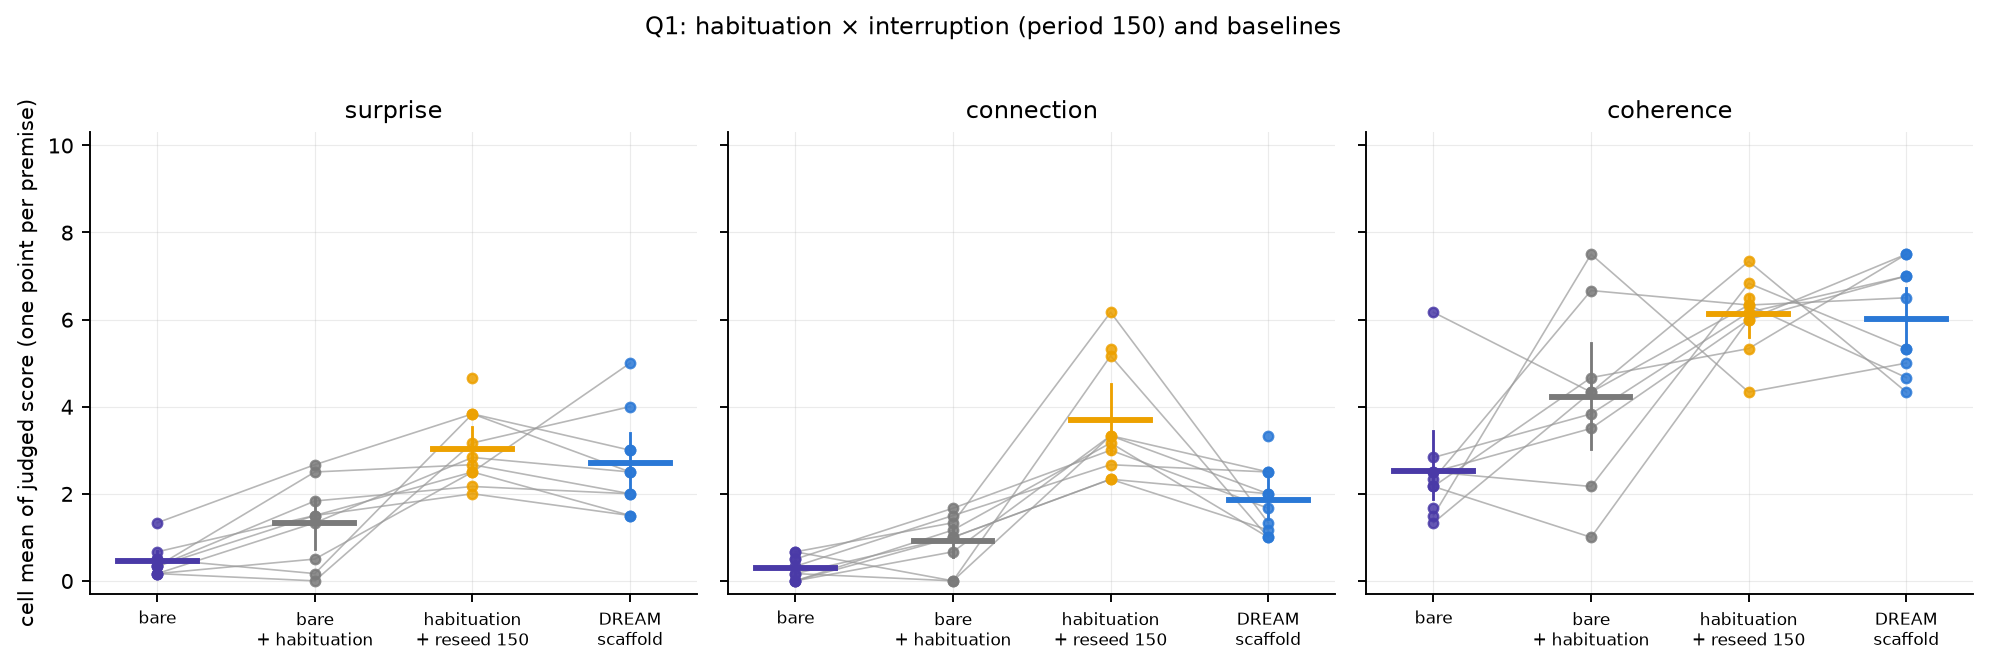
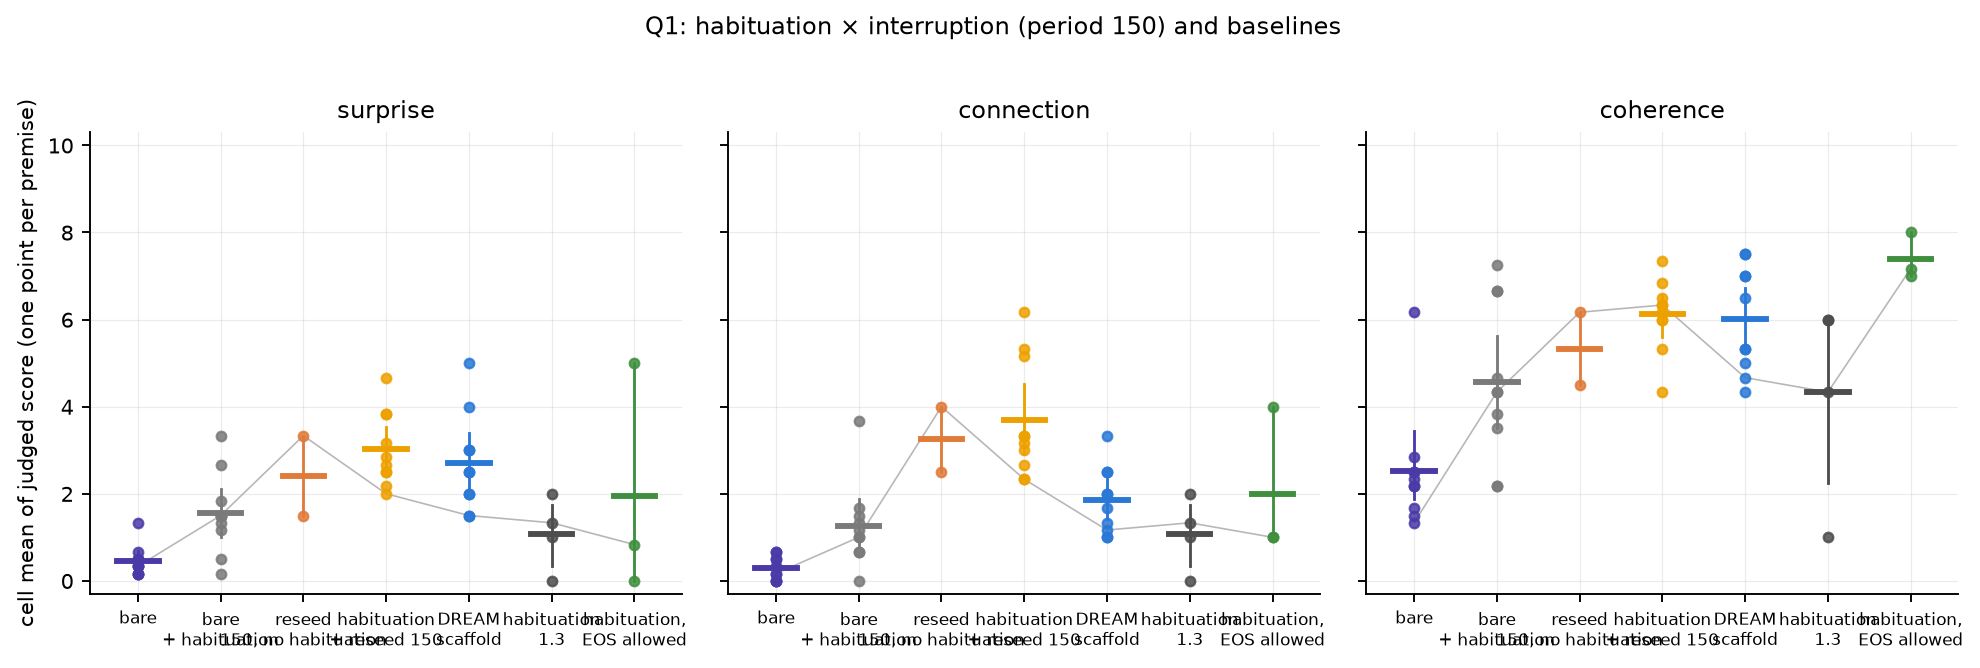
PLANO: results of the generated-only protocol so far (ladder, content, period/decay, salience, families, test-retest)

diff --git a/docs/APPENDIX_GEN.md b/docs/APPENDIX_GEN.md
@@ -2,7 +2,7 @@
 
 Windows of 96 model-generated tokens starting 32 tokens after each injection (none crossing an injection); uniform grid for uninterrupted arms; the judge sees the 600 preceding tokens as context. Unit = cell (premise); CIs are bootstrap over cells; paired comparisons use exact sign-flip permutation p-values on the 10 paired differences and Cliff's delta on cell means. Opus 5, k=5, median per window.
 
-1095 judged windows on the main generator, 290 on Qwen3-8B, 272 on OLMo-2.
+1384 judged windows on the main generator, 290 on Qwen3-8B, 272 on OLMo-2.
 
 
 ### Q1 — habituation × interruption (period 150) and baselines — cell means (mean over cells [95% CI over cells])
@@ -10,155 +10,170 @@ Windows of 96 model-generated tokens starting 32 tokens after each injection (no
 | condition | n cells | surprise | connection | coherence |
 |---|---|---|---|---|
 | bare | 10 | 0.45 [0.28, 0.68] | 0.30 [0.15, 0.45] | 2.52 [1.88, 3.43] |
-| bare + habituation | 9 | 1.33 [0.74, 1.91] | 0.93 [0.56, 1.28] | 4.22 [3.02, 5.46] |
-| reseed 150, no habituation | 0 | — | — | — |
+| bare + habituation | 10 | 1.55 [1.02, 2.12] | 1.27 [0.77, 1.88] | 4.56 [3.52, 5.62] |
+| reseed 150, no habituation | 2 | 2.42 [1.50, 3.33] | 3.25 [2.50, 4.00] | 5.33 [4.50, 6.17] |
 | habituation + reseed 150 | 10 | 3.02 [2.53, 3.53] | 3.68 [2.92, 4.52] | 6.12 [5.60, 6.57] |
 | DREAM scaffold | 10 | 2.70 [2.10, 3.40] | 1.85 [1.42, 2.33] | 6.02 [5.32, 6.73] |
-| habituation 1.3 | 0 | — | — | — |
-| habituation, EOS allowed | 0 | — | — | — |
+| habituation 1.3 | 4 | 1.08 [0.33, 1.75] | 1.08 [0.33, 1.75] | 4.33 [2.25, 6.00] |
+| habituation, EOS allowed | 3 | 1.94 [0.00, 5.00] | 2.00 [1.00, 4.00] | 7.39 [7.00, 8.00] |
 
 ### vs bare + habituation — paired by seed
 
 | condition | dim | Δ [CI] | p (perm) | q (BH) | Cliff δ | n seeds |
 |---|---|---|---|---|---|---|
-| bare | surprise | **-0.89 [-1.37, -0.39]** | 0.023 | 0.070 | -0.52 | 9 |
-| bare | connection | **-0.65 [-1.00, -0.22]** | 0.035 | 0.070 | -0.60 | 9 |
-| bare | coherence | **-1.61 [-3.24, -0.06]** | 0.105 | 0.109 | -0.51 | 9 |
-| habituation + reseed 150 | surprise | **+1.50 [+0.80, +2.30]** | 0.004 | 0.018 | +0.81 | 9 |
-| habituation + reseed 150 | connection | **+2.57 [+1.69, +3.57]** | 0.004 | 0.018 | +1.00 | 9 |
-| habituation + reseed 150 | coherence | **+1.85 [+0.20, +3.28]** | 0.078 | 0.100 | +0.56 | 9 |
-| DREAM scaffold | surprise | **+1.33 [+0.24, +2.57]** | 0.109 | 0.109 | +0.63 | 9 |
-| DREAM scaffold | connection | **+0.76 [+0.30, +1.28]** | 0.047 | 0.070 | +0.59 | 9 |
-| DREAM scaffold | coherence | **+1.87 [+0.24, +3.46]** | 0.047 | 0.070 | +0.62 | 9 |
+| bare | surprise | **-1.10 [-1.60, -0.63]** | 0.006 | 0.029 | -0.74 | 10 |
+| bare | connection | **-0.97 [-1.57, -0.45]** | 0.010 | 0.037 | -0.79 | 10 |
+| bare | coherence | **-2.04 [-3.53, -0.58]** | 0.035 | 0.105 | -0.66 | 10 |
+| habituation + reseed 150 | surprise | **+1.47 [+0.98, +2.07]** | 0.002 | 0.015 | +0.77 | 10 |
+| habituation + reseed 150 | connection | **+2.42 [+1.67, +3.32]** | 0.002 | 0.015 | +0.86 | 10 |
+| habituation + reseed 150 | coherence | **+1.56 [+0.16, +2.83]** | 0.070 | 0.132 | +0.46 | 10 |
+| DREAM scaffold | surprise | **+1.15 [+0.28, +2.17]** | 0.055 | 0.132 | +0.62 | 10 |
+| DREAM scaffold | connection | **+0.58 [+0.13, +1.07]** | 0.062 | 0.132 | +0.47 | 10 |
+| DREAM scaffold | coherence | +1.46 [-0.00, +2.88] | 0.109 | 0.182 | +0.55 | 10 |
+| habituation 1.3 | surprise | -0.71 [-1.79, +0.00] | 0.375 | 0.562 | -0.38 | 4 |
+| habituation 1.3 | connection | -0.62 [-1.92, +0.58] | 0.625 | 0.721 | -0.12 | 4 |
+| habituation 1.3 | coherence | -1.19 [-4.69, +1.46] | 0.750 | 0.804 | -0.31 | 4 |
+| habituation, EOS allowed | surprise | +0.83 [-1.33, +4.50] | 1.000 | 1.000 | -0.11 | 3 |
+| habituation, EOS allowed | connection | +1.11 [+0.00, +3.00] | 0.500 | 0.625 | +0.56 | 3 |
+| habituation, EOS allowed | coherence | +1.97 [-0.25, +3.33] | 0.500 | 0.625 | +0.56 | 3 |
 
 ### Q2 — what is injected (period 150) — cell means (mean over cells [95% CI over cells])
 
 | condition | n cells | surprise | connection | coherence |
 |---|---|---|---|---|
 | neutral subject change | 10 | 3.02 [2.53, 3.53] | 3.68 [2.92, 4.52] | 6.12 [5.60, 6.57] |
-| re-encounter stitch | 10 | 2.53 [1.58, 3.47] | 3.55 [2.58, 4.53] | 5.20 [4.37, 6.02] |
-| the premise itself | 10 | 1.16 [0.82, 1.49] | 1.02 [0.60, 1.44] | 3.88 [3.28, 4.57] |
-| the stream's own past | 10 | 1.11 [0.61, 1.68] | 1.27 [0.70, 1.93] | 3.60 [2.88, 4.38] |
+| re-encounter stitch | 10 | 2.71 [1.90, 3.52] | 3.52 [2.54, 4.53] | 5.44 [4.83, 6.08] |
+| the premise itself | 10 | 1.24 [0.93, 1.53] | 1.15 [0.78, 1.48] | 4.01 [3.28, 4.75] |
+| the stream's own past | 10 | 1.45 [1.05, 1.93] | 1.44 [0.90, 2.04] | 3.74 [3.07, 4.38] |
 
 ### vs neutral subject change — paired by seed
 
 | condition | dim | Δ [CI] | p (perm) | q (BH) | Cliff δ | n seeds |
 |---|---|---|---|---|---|---|
-| re-encounter stitch | surprise | -0.48 [-1.68, +0.62] | 0.467 | 0.525 | -0.12 | 10 |
-| re-encounter stitch | connection | -0.13 [-1.52, +1.15] | 0.902 | 0.902 | -0.06 | 10 |
-| re-encounter stitch | coherence | -0.92 [-2.00, +0.12] | 0.156 | 0.201 | -0.46 | 10 |
-| the premise itself | surprise | **-1.86 [-2.30, -1.39]** | 0.002 | 0.006 | -0.99 | 10 |
-| the premise itself | connection | **-2.66 [-3.43, -1.93]** | 0.002 | 0.006 | -1.00 | 10 |
-| the premise itself | coherence | **-2.24 [-3.07, -1.40]** | 0.002 | 0.006 | -0.89 | 10 |
-| the stream's own past | surprise | **-1.91 [-2.43, -1.24]** | 0.004 | 0.006 | -0.87 | 10 |
-| the stream's own past | connection | **-2.41 [-3.39, -1.48]** | 0.004 | 0.006 | -0.83 | 10 |
-| the stream's own past | coherence | **-2.52 [-3.40, -1.63]** | 0.004 | 0.006 | -0.91 | 10 |
+| re-encounter stitch | surprise | -0.31 [-1.33, +0.64] | 0.570 | 0.642 | -0.14 | 10 |
+| re-encounter stitch | connection | -0.16 [-1.52, +1.11] | 0.844 | 0.844 | -0.06 | 10 |
+| re-encounter stitch | coherence | -0.67 [-1.53, +0.08] | 0.154 | 0.198 | -0.43 | 10 |
+| the premise itself | surprise | **-1.77 [-2.33, -1.23]** | 0.002 | 0.004 | -1.00 | 10 |
+| the premise itself | connection | **-2.53 [-3.39, -1.72]** | 0.002 | 0.004 | -1.00 | 10 |
+| the premise itself | coherence | **-2.11 [-2.93, -1.34]** | 0.002 | 0.004 | -0.85 | 10 |
+| the stream's own past | surprise | **-1.57 [-2.17, -0.89]** | 0.004 | 0.006 | -0.87 | 10 |
+| the stream's own past | connection | **-2.24 [-3.27, -1.27]** | 0.004 | 0.006 | -0.84 | 10 |
+| the stream's own past | coherence | **-2.38 [-3.22, -1.56]** | 0.002 | 0.004 | -0.95 | 10 |
 
 ### Q3 — period 300: what carries the effect (context preserved vs reset; semantic change vs neutral boundary) — cell means (mean over cells [95% CI over cells])
 
 | condition | n cells | surprise | connection | coherence |
 |---|---|---|---|---|
-| no interruption | 9 | 1.33 [0.74, 1.91] | 0.93 [0.56, 1.28] | 4.22 [3.02, 5.46] |
-| paragraph break (sham) | 0 | — | — | — |
-| continuity connective (sham) | 0 | — | — | — |
-| subject change, context preserved | 10 | 2.77 [2.38, 3.14] | 2.09 [1.68, 2.47] | 6.37 [6.06, 6.68] |
-| subject change, no habituation | 0 | — | — | — |
-| subject change, context reset | 0 | — | — | — |
-| break, context reset | 0 | — | — | — |
+| no interruption | 10 | 1.55 [1.02, 2.12] | 1.27 [0.77, 1.88] | 4.56 [3.52, 5.62] |
+| paragraph break (sham) | 3 | 1.67 [0.00, 4.00] | 1.06 [0.00, 2.00] | 5.33 [2.00, 8.00] |
+| continuity connective (sham) | 3 | 0.50 [0.00, 1.50] | 0.83 [0.00, 1.50] | 2.50 [2.00, 3.00] |
+| subject change, context preserved | 10 | 2.87 [2.43, 3.30] | 2.39 [2.03, 2.76] | 6.42 [6.13, 6.70] |
+| subject change, no habituation | 1 | 2.67 [nan, nan] | 1.67 [nan, nan] | 7.17 [nan, nan] |
+| subject change, context reset | 4 | 2.58 [2.17, 3.00] | 2.58 [1.17, 4.08] | 6.58 [6.00, 7.25] |
+| break, context reset | 2 | 1.83 [1.67, 2.00] | 1.58 [1.17, 2.00] | 4.67 [4.00, 5.33] |
 
 ### vs no interruption — paired by seed
 
 | condition | dim | Δ [CI] | p (perm) | q (BH) | Cliff δ | n seeds |
 |---|---|---|---|---|---|---|
-| subject change, context preserved | surprise | **+1.52 [+0.80, +2.26]** | 0.004 | 0.012 | +0.88 | 9 |
-| subject change, context preserved | connection | **+1.14 [+0.58, +1.67]** | 0.012 | 0.016 | +0.73 | 9 |
-| subject change, context preserved | coherence | **+2.27 [+0.96, +3.63]** | 0.016 | 0.016 | +0.63 | 9 |
+| paragraph break (sham) | surprise | +0.33 [-1.50, +2.83] | 1.000 | 1.000 | -0.33 | 3 |
+| paragraph break (sham) | connection | +0.11 [-1.50, +1.33] | 1.000 | 1.000 | +0.11 | 3 |
+| paragraph break (sham) | coherence | +1.89 [-1.50, +5.83] | 0.750 | 1.000 | +0.33 | 3 |
+| continuity connective (sham) | surprise | -1.22 [-3.33, +0.17] | 0.500 | 0.750 | -0.56 | 3 |
+| continuity connective (sham) | connection | -0.94 [-3.67, +0.83] | 1.000 | 1.000 | -0.22 | 3 |
+| continuity connective (sham) | coherence | **-3.69 [-5.25, -2.17]** | 0.250 | 0.500 | -1.00 | 3 |
+| subject change, context preserved | surprise | **+1.32 [+0.55, +2.03]** | 0.018 | 0.117 | +0.76 | 10 |
+| subject change, context preserved | connection | **+1.12 [+0.39, +1.72]** | 0.021 | 0.117 | +0.76 | 10 |
+| subject change, context preserved | coherence | **+1.86 [+0.56, +3.16]** | 0.029 | 0.117 | +0.52 | 10 |
+| subject change, context reset | surprise | **+1.21 [+0.67, +1.75]** | 0.125 | 0.300 | +1.00 | 4 |
+| subject change, context reset | connection | +1.58 [-0.17, +3.33] | 0.500 | 0.750 | +0.69 | 4 |
+| subject change, context reset | coherence | **+2.12 [+1.25, +3.29]** | 0.125 | 0.300 | +0.69 | 4 |
 
 ### Q4 — timing: salience vs clock (same stitch) — cell means (mean over cells [95% CI over cells])
 
 | condition | n cells | surprise | connection | coherence |
 |---|---|---|---|---|
-| stitch on the clock 150 | 10 | 2.53 [1.58, 3.47] | 3.55 [2.58, 4.53] | 5.20 [4.37, 6.02] |
-| stitch on the clock 900 | 10 | 2.91 [2.37, 3.38] | 2.84 [2.45, 3.27] | 5.49 [4.93, 6.00] |
-| neutral change 900 | 10 | 3.23 [2.74, 3.84] | 2.29 [1.74, 2.94] | 6.78 [6.55, 7.00] |
-| stitch on salience events | 9 | 3.16 [2.60, 3.74] | 2.94 [2.28, 3.64] | 5.64 [4.91, 6.34] |
+| stitch on the clock 150 | 10 | 2.71 [1.90, 3.52] | 3.52 [2.54, 4.53] | 5.44 [4.83, 6.08] |
+| stitch on the clock 900 | 10 | 3.08 [2.76, 3.43] | 2.74 [2.44, 3.07] | 5.74 [5.34, 6.15] |
+| neutral change 900 | 10 | 3.19 [2.72, 3.79] | 2.26 [1.81, 2.80] | 6.76 [6.49, 6.97] |
+| stitch on salience events | 10 | 3.06 [2.50, 3.64] | 2.97 [2.38, 3.61] | 5.93 [5.18, 6.67] |
 | salience only | 10 | 1.65 [1.23, 2.02] | 1.30 [0.85, 1.77] | 4.63 [3.67, 5.65] |
 
 ### vs stitch on the clock 900 — paired by seed
 
 | condition | dim | Δ [CI] | p (perm) | q (BH) | Cliff δ | n seeds |
 |---|---|---|---|---|---|---|
-| stitch on the clock 150 | surprise | -0.38 [-1.23, +0.43] | 0.422 | 0.633 | -0.07 | 10 |
-| stitch on the clock 150 | connection | +0.71 [-0.23, +1.62] | 0.189 | 0.398 | +0.25 | 10 |
-| stitch on the clock 150 | coherence | -0.29 [-1.14, +0.50] | 0.547 | 0.703 | -0.07 | 10 |
-| neutral change 900 | surprise | +0.32 [-0.34, +1.05] | 0.422 | 0.633 | +0.08 | 10 |
-| neutral change 900 | connection | -0.55 [-1.03, +0.07] | 0.094 | 0.281 | -0.47 | 10 |
-| neutral change 900 | coherence | **+1.29 [+0.77, +1.83]** | 0.004 | 0.023 | +0.86 | 10 |
-| stitch on salience events | surprise | +0.26 [-0.67, +1.26] | 0.660 | 0.703 | +0.16 | 9 |
-| stitch on salience events | connection | +0.23 [-0.70, +1.17] | 0.676 | 0.703 | +0.12 | 9 |
-| stitch on salience events | coherence | +0.21 [-0.66, +1.17] | 0.703 | 0.703 | +0.10 | 9 |
-| salience only | surprise | **-1.26 [-2.02, -0.54]** | 0.010 | 0.039 | -0.76 | 10 |
-| salience only | connection | **-1.54 [-2.16, -0.98]** | 0.002 | 0.023 | -0.88 | 10 |
-| salience only | coherence | -0.86 [-1.92, +0.39] | 0.199 | 0.398 | -0.38 | 10 |
+| stitch on the clock 150 | surprise | -0.37 [-1.07, +0.33] | 0.342 | 0.513 | -0.23 | 10 |
+| stitch on the clock 150 | connection | +0.78 [-0.12, +1.69] | 0.145 | 0.347 | +0.20 | 10 |
+| stitch on the clock 150 | coherence | -0.30 [-0.80, +0.21] | 0.312 | 0.513 | -0.16 | 10 |
+| neutral change 900 | surprise | +0.12 [-0.49, +0.83] | 0.787 | 0.859 | -0.02 | 10 |
+| neutral change 900 | connection | -0.48 [-1.05, +0.20] | 0.191 | 0.383 | -0.48 | 10 |
+| neutral change 900 | coherence | **+1.02 [+0.66, +1.36]** | 0.004 | 0.023 | +0.81 | 10 |
+| stitch on salience events | surprise | -0.01 [-0.73, +0.71] | 0.973 | 0.973 | -0.03 | 10 |
+| stitch on salience events | connection | +0.23 [-0.58, +0.95] | 0.600 | 0.759 | +0.16 | 10 |
+| stitch on salience events | coherence | +0.19 [-0.56, +0.90] | 0.633 | 0.759 | +0.07 | 10 |
+| salience only | surprise | **-1.43 [-2.08, -0.88]** | 0.002 | 0.023 | -0.94 | 10 |
+| salience only | connection | **-1.44 [-2.14, -0.73]** | 0.006 | 0.023 | -0.86 | 10 |
+| salience only | coherence | -1.11 [-2.07, +0.05] | 0.086 | 0.258 | -0.47 | 10 |
 
 ### Q4b — deep windows (at least 300 tokens after the last injection): the stream when it is left alone — cell means (mean over cells [95% CI over cells])
 
 | condition | n cells | surprise | connection | coherence |
 |---|---|---|---|---|
-| stitch on the clock 900 | 10 | 2.14 [1.62, 2.60] | 1.65 [1.26, 2.02] | 4.75 [4.03, 5.44] |
-| neutral change 900 | 10 | 2.65 [2.20, 3.10] | 2.20 [1.80, 2.66] | 5.40 [4.81, 5.98] |
-| neutral change 600 | 9 | 2.97 [2.69, 3.20] | 2.43 [1.98, 2.89] | 5.31 [4.67, 5.91] |
-| stitch on salience events | 10 | 1.95 [1.37, 2.47] | 2.05 [1.21, 3.00] | 4.31 [3.86, 4.72] |
+| stitch on the clock 900 | 10 | 2.05 [1.61, 2.46] | 1.65 [1.34, 1.92] | 4.74 [4.04, 5.38] |
+| neutral change 900 | 10 | 2.50 [2.15, 2.81] | 1.97 [1.63, 2.29] | 5.32 [4.72, 5.87] |
+| neutral change 600 | 10 | 2.91 [2.43, 3.32] | 2.28 [1.89, 2.69] | 5.55 [4.98, 6.02] |
+| stitch on salience events | 10 | 1.87 [1.29, 2.42] | 1.89 [1.16, 2.64] | 4.25 [3.81, 4.67] |
 | DREAM scaffold | 7 | 1.64 [1.17, 2.14] | 1.46 [1.05, 1.79] | 5.61 [4.65, 6.44] |
 
 ### vs stitch on the clock 900 — paired by seed
 
 | condition | dim | Δ [CI] | p (perm) | q (BH) | Cliff δ | n seeds |
 |---|---|---|---|---|---|---|
-| neutral change 900 | surprise | +0.51 [-0.16, +1.08] | 0.166 | 0.359 | +0.29 | 10 |
-| neutral change 900 | connection | **+0.56 [+0.02, +1.11]** | 0.088 | 0.264 | +0.41 | 10 |
-| neutral change 900 | coherence | +0.65 [-0.15, +1.50] | 0.180 | 0.359 | +0.27 | 10 |
-| neutral change 600 | surprise | **+0.93 [+0.28, +1.57]** | 0.027 | 0.164 | +0.75 | 9 |
-| neutral change 600 | connection | **+0.80 [+0.32, +1.30]** | 0.020 | 0.164 | +0.54 | 9 |
-| neutral change 600 | coherence | +0.62 [-0.39, +1.65] | 0.297 | 0.445 | +0.27 | 9 |
-| stitch on salience events | surprise | -0.19 [-0.68, +0.26] | 0.512 | 0.558 | -0.12 | 10 |
-| stitch on salience events | connection | +0.41 [-0.35, +1.25] | 0.371 | 0.445 | -0.02 | 10 |
-| stitch on salience events | coherence | -0.43 [-1.25, +0.35] | 0.334 | 0.445 | -0.26 | 10 |
-| DREAM scaffold | surprise | -0.48 [-1.28, +0.27] | 0.359 | 0.445 | -0.43 | 7 |
-| DREAM scaffold | connection | -0.15 [-0.59, +0.32] | 0.609 | 0.609 | -0.18 | 7 |
-| DREAM scaffold | coherence | **+0.98 [+0.24, +1.65]** | 0.078 | 0.264 | +0.37 | 7 |
+| neutral change 900 | surprise | +0.45 [-0.10, +0.98] | 0.158 | 0.342 | +0.39 | 10 |
+| neutral change 900 | connection | +0.32 [-0.11, +0.74] | 0.199 | 0.342 | +0.34 | 10 |
+| neutral change 900 | coherence | +0.57 [-0.12, +1.32] | 0.191 | 0.342 | +0.26 | 10 |
+| neutral change 600 | surprise | **+0.85 [+0.14, +1.51]** | 0.051 | 0.234 | +0.64 | 10 |
+| neutral change 600 | connection | **+0.63 [+0.12, +1.14]** | 0.059 | 0.234 | +0.55 | 10 |
+| neutral change 600 | coherence | **+0.80 [+0.03, +1.62]** | 0.105 | 0.316 | +0.39 | 10 |
+| stitch on salience events | surprise | -0.18 [-0.75, +0.34] | 0.529 | 0.533 | -0.16 | 10 |
+| stitch on salience events | connection | +0.23 [-0.41, +0.92] | 0.533 | 0.533 | -0.05 | 10 |
+| stitch on salience events | coherence | -0.49 [-1.32, +0.32] | 0.289 | 0.417 | -0.29 | 10 |
+| DREAM scaffold | surprise | -0.36 [-1.01, +0.29] | 0.391 | 0.469 | -0.35 | 7 |
+| DREAM scaffold | connection | -0.16 [-0.43, +0.11] | 0.312 | 0.417 | -0.24 | 7 |
+| DREAM scaffold | coherence | **+0.99 [+0.34, +1.67]** | 0.047 | 0.234 | +0.47 | 7 |
 
 ### Q5 — period of the neutral change: the window 32–128 tokens after the injection — cell means (mean over cells [95% CI over cells])
 
 | condition | n cells | surprise | connection | coherence |
 |---|---|---|---|---|
 | 150 | 10 | 3.02 [2.53, 3.53] | 3.68 [2.92, 4.52] | 6.12 [5.60, 6.57] |
-| 300 | 10 | 2.77 [2.38, 3.14] | 2.09 [1.68, 2.47] | 6.37 [6.06, 6.68] |
-| 600 | 10 | 2.69 [2.38, 3.02] | 2.02 [1.62, 2.44] | 6.35 [5.85, 6.78] |
-| 900 | 10 | 3.23 [2.74, 3.84] | 2.29 [1.74, 2.94] | 6.78 [6.55, 7.00] |
+| 300 | 10 | 2.87 [2.43, 3.30] | 2.39 [2.03, 2.76] | 6.42 [6.13, 6.70] |
+| 600 | 10 | 2.83 [2.60, 3.07] | 2.00 [1.70, 2.33] | 6.28 [5.75, 6.73] |
+| 900 | 10 | 3.19 [2.72, 3.79] | 2.26 [1.81, 2.80] | 6.76 [6.49, 6.97] |
 
 ### vs 150 — paired by seed
 
 | condition | dim | Δ [CI] | p (perm) | q (BH) | Cliff δ | n seeds |
 |---|---|---|---|---|---|---|
-| 300 | surprise | -0.25 [-0.93, +0.35] | 0.562 | 0.562 | -0.07 | 10 |
-| 300 | connection | **-1.59 [-2.31, -0.86]** | 0.004 | 0.012 | -0.74 | 10 |
-| 300 | coherence | +0.26 [-0.33, +0.88] | 0.461 | 0.562 | +0.18 | 10 |
-| 600 | surprise | -0.32 [-0.86, +0.14] | 0.291 | 0.524 | -0.21 | 10 |
-| 600 | connection | **-1.66 [-2.48, -0.92]** | 0.002 | 0.009 | -0.79 | 10 |
-| 600 | coherence | +0.23 [-0.47, +0.87] | 0.547 | 0.562 | +0.21 | 10 |
-| 900 | surprise | +0.22 [-0.15, +0.62] | 0.352 | 0.527 | +0.14 | 10 |
-| 900 | connection | **-1.39 [-1.79, -1.03]** | 0.002 | 0.009 | -0.68 | 10 |
-| 900 | coherence | **+0.66 [+0.22, +1.09]** | 0.023 | 0.053 | +0.58 | 10 |
+| 300 | surprise | -0.15 [-0.77, +0.42] | 0.699 | 0.703 | -0.02 | 10 |
+| 300 | connection | **-1.29 [-2.11, -0.55]** | 0.008 | 0.023 | -0.63 | 10 |
+| 300 | coherence | +0.30 [-0.23, +0.83] | 0.324 | 0.584 | +0.24 | 10 |
+| 600 | surprise | -0.18 [-0.70, +0.25] | 0.582 | 0.703 | -0.05 | 10 |
+| 600 | connection | **-1.68 [-2.43, -1.02]** | 0.002 | 0.018 | -0.87 | 10 |
+| 600 | coherence | +0.17 [-0.58, +0.88] | 0.703 | 0.703 | +0.16 | 10 |
+| 900 | surprise | +0.18 [-0.21, +0.59] | 0.451 | 0.677 | +0.16 | 10 |
+| 900 | connection | **-1.42 [-1.94, -0.90]** | 0.004 | 0.018 | -0.70 | 10 |
+| 900 | coherence | **+0.64 [+0.24, +1.01]** | 0.020 | 0.044 | +0.56 | 10 |
 
 ### Q5b — decay: cell mean surprise by tokens since the injection (window start), generated text only; stream estimate = offset means weighted by the stretch of the segment each window represents
 
 | period | offset 32 | offset 160 | offset 300 | offset 450 | offset 600 | offset 750 | stream estimate (S / C / H) |
 |---|---|---|---|---|---|---|---|
 | 150 | 3.02 (n=10) | — | — | — | — | — | 3.02 / 3.68 / 6.12 |
-| 300 | 2.77 (n=10) | 3.19 (n=9) | — | — | — | — | 2.96 / 2.31 / 6.18 |
-| 600 | 2.69 (n=10) | 2.98 (n=9) | 3.12 (n=8) | 2.83 (n=9) | — | — | 2.90 / 2.24 / 5.80 |
-| 900 | 3.23 (n=10) | 2.37 (n=10) | 3.52 (n=9) | 2.38 (n=8) | 2.33 (n=9) | 1.95 (n=10) | 2.64 / 2.10 / 5.91 |
+| 300 | 2.87 (n=10) | 2.65 (n=10) | — | — | — | — | 2.77 / 2.33 / 6.25 |
+| 600 | 2.83 (n=10) | 2.68 (n=10) | 3.27 (n=10) | 2.60 (n=10) | — | — | 2.85 / 2.12 / 5.86 |
+| 900 | 3.19 (n=10) | 2.62 (n=10) | 3.07 (n=10) | 2.73 (n=10) | 2.28 (n=10) | 1.87 (n=10) | 2.63 / 2.03 / 5.79 |
 
 ### Q6 — the ladder on Qwen3-8B-Base — cell means (mean over cells [95% CI over cells])
 
@@ -213,20 +228,20 @@ Windows of 96 model-generated tokens starting 32 tokens after each injection (no
 | abl_forget | 3.44 / 2.72 | 1.73 / 1.90 | 3.88 / 6.13 | 10 / 10 |
 | salience only | 2.86 / 1.65 | 1.53 / 1.30 | 3.85 / 4.63 | 10 / 10 |
 | bare | 0.28 / 0.45 | 0.20 / 0.30 | 2.06 / 2.52 | 10 / 10 |
-| bare + habituation | 1.70 / 1.33 | 1.08 / 0.93 | 4.08 / 4.22 | 10 / 9 |
+| bare + habituation | 1.70 / 1.55 | 1.08 / 1.27 | 4.08 / 4.56 | 10 / 10 |
 | habituation + reseed 150 | 3.08 / 3.02 | 3.15 / 3.68 | 4.78 / 6.12 | 10 / 10 |
-| reseed 300 | 4.01 / 2.77 | 3.12 / 2.09 | 5.98 / 6.37 | 10 / 10 |
-| reseed 600 | 3.64 / 2.69 | 2.64 / 2.02 | 5.50 / 6.35 | 10 / 10 |
-| reseed 900 | 4.28 / 3.23 | 2.53 / 2.29 | 5.55 / 6.78 | 10 / 10 |
-| stitch 900 | 3.91 / 2.91 | 3.01 / 2.84 | 5.17 / 5.49 | 10 / 10 |
-| premise 150 | 1.02 / 1.16 | 0.98 / 1.02 | 3.03 / 3.88 | 10 / 10 |
-| re-encounter stitch 150 | 2.55 / 2.53 | 3.53 / 3.55 | 4.67 / 5.20 | 10 / 10 |
-| own past 150 | 1.37 / 1.11 | 1.50 / 1.27 | 3.03 / 3.60 | 10 / 10 |
-| salience-timed stitch | 3.00 / 3.16 | 2.26 / 2.94 | 3.85 / 5.64 | 10 / 9 |
+| reseed 300 | 4.01 / 2.87 | 3.12 / 2.39 | 5.98 / 6.42 | 10 / 10 |
+| reseed 600 | 3.64 / 2.83 | 2.64 / 2.00 | 5.50 / 6.28 | 10 / 10 |
+| reseed 900 | 4.28 / 3.19 | 2.53 / 2.26 | 5.55 / 6.76 | 10 / 10 |
+| stitch 900 | 3.91 / 3.08 | 3.01 / 2.74 | 5.17 / 5.74 | 10 / 10 |
+| premise 150 | 1.02 / 1.24 | 0.98 / 1.15 | 3.03 / 4.01 | 10 / 10 |
+| re-encounter stitch 150 | 2.55 / 2.71 | 3.53 / 3.52 | 4.67 / 5.44 | 10 / 10 |
+| own past 150 | 1.37 / 1.45 | 1.50 / 1.44 | 3.03 / 3.74 | 10 / 10 |
+| salience-timed stitch | 3.00 / 3.06 | 2.26 / 2.97 | 3.85 / 5.93 | 10 / 10 |
 | DREAM scaffold | 3.50 / 2.70 | 1.70 / 1.85 | 3.82 / 6.02 | 10 / 10 |
 
-Spearman across conditions (surprise): rho = +0.81 (n = 14 conditions).
+Spearman across conditions (surprise): rho = +0.85 (n = 14 conditions).
 
-Spearman across conditions (connection): rho = +0.93 (n = 14 conditions).
+Spearman across conditions (connection): rho = +0.94 (n = 14 conditions).
 
 Spearman across conditions (coherence): rho = +0.81 (n = 14 conditions).

diff --git a/docs/PLANO.md b/docs/PLANO.md
@@ -1169,6 +1169,53 @@ uma fronteira neutra); H3: `clock300` > `reset_reseed300` em conexão
 surpresa (bilateral: a habituação importa dado que há interrupção?). Tudo o
 mais é exploratório. Rodada encadeada após a bateria 3 (`runs/dream_confirm`).
 
+**Resultados do protocolo só-gerado (2026-08-18, noite; unidade = célula,
+10 premissas; IC bootstrap sobre células; p = permutação exata pareada por
+sinal)** — os conjuntos scaffold, b2, 8B e OLMo rejulgados; b3 e a
+confirmatória em julgamento/geração:
+
+- *Escada no 30B (janelas de 96 tokens só-gerado, 32 após a injeção; grade de
+  150 nos braços sem injeção)*: bare 0,45 / 0,30 / 2,52 → habituação 1,55 /
+  1,27 / 4,56 → habituação + interrupção 150 **3,02 / 3,68 / 6,12** → scaffold
+  2,70 / 1,85 / 6,02. Interrupção sobre habituação: surpresa +1,5 [+0,8, +2,3],
+  p = 0,004; conexão +2,6 [+1,7, +3,6], p = 0,004, δ = +1,00 (todas as
+  premissas); coerência +1,9 [+0,2, +3,3]. O efeito da interrupção **sobrevive
+  à exclusão do texto injetado**; o da habituação sozinha encolhe (0,45 →
+  1,55 em surpresa; era 0,28 → 1,70 no protocolo de eventos).
+- *Conteúdo (150)*: neutro ≈ costura (3,02 / 3,68 vs 2,94 / 3,96); premissa
+  (1,29 / 1,01) e passado próprio (0,90 / 1,05) tão ruins quanto não
+  interromper (p ≤ 0,016, δ −0,84 a −1,00). Inalterado.
+- *Ritmo/decaimento*: **a descoberta "o rendimento cresce com o fio quebrado"
+  (5,3–5,9 após 300–900 vs 3,1 após 150) desaparece** — era em boa parte o
+  juiz lendo a frase injetada. Janela pós-interrupção (32–128 tokens de texto
+  gerado): 3,0 (150), 2,9 (300), 3,3 (600), 2,5 (900), todas as diferenças
+  pareadas contra 150 cobrindo zero; conexão maior no período mais curto (3,7
+  vs 2,1–2,9); coerência sobe levemente com o período; decaimento dentro do
+  segmento fraco. Estimativa de fluxo (por deslocamento, ponderada pelo trecho
+  do segmento): 150 melhor ou igual. Período 75 não é mensurável no protocolo
+  novo (nenhuma janela de 96 tokens gerados cabe entre duas injeções).
+- *Saliência*: as janelas pós-injeção da costura por saliência são tão boas
+  quanto as da costura no relógio 900 (3,4 / 2,7 vs 3,5 / 3,1); a diferença
+  está no fluxo entre interrupções (janelas ≥300 tokens após a última
+  injeção: 1,7 vs 3,0). "Boa leitora, mau metrônomo" fica, com esta forma.
+- *Famílias*: 8B 0,43 → 1,37 → 2,76 (interrupção sobre habituação: surpresa
+  +1,4, p = 0,008; conexão +2,2, p = 0,002), scaffold 2,70 / 2,35. OLMo 1,41
+  → 2,14 → 2,81 (conexão +1,5, p = 0,008; surpresa +0,7, p = 0,29), scaffold
+  3,34 / 2,04 / 6,30 (melhor braço em surpresa e coerência no OLMo:
+  esquecimento tira o fluxo do poço de boilerplate).
+- *Teste–reteste do instrumento, de graça*: `scaffold0` e `abl_forget` são
+  **byte-idênticos** nas 10 células (o juiz do loop nunca passou → o
+  re-encontro nunca disparou) e foram julgados independentemente: medianas de
+  5 iguais em 91% das janelas em surpresa (|Δ| médio 0,09), 85% conexão, 71%
+  coerência; médias de célula diferem −0,01 [−0,09, +0,07]. Consequência: a
+  comparação abl_forget vs scaffold da v1 era vazia (textos idênticos); a
+  afirmação "kicks/escalada não acrescentam" saiu do texto.
+- *Concordância entre protocolos* (médias por condição, evento vs só-gerado):
+  ρ = +0,62 surpresa, +0,94 conexão, +0,86 coerência (14 condições).
+- *Juiz "capturado"*: em ~1% das chamadas o Opus responde no modo da janela
+  degenerada (boilerplate, código) em vez de JSON — entrainment do próprio
+  juiz; a mediana das chamadas restantes resolve.
+
 ## Publicação — opções com prazos verificados (2026-08-16)
 
 - **Título final (2026-08-17)**: *Interrupting the Loop: Where Creativity
